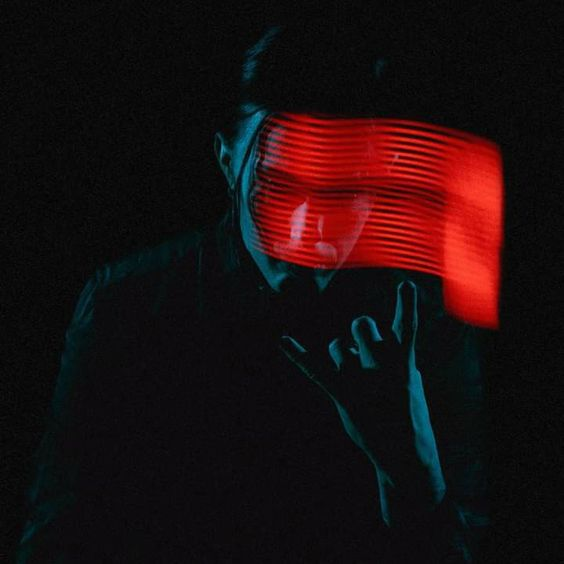
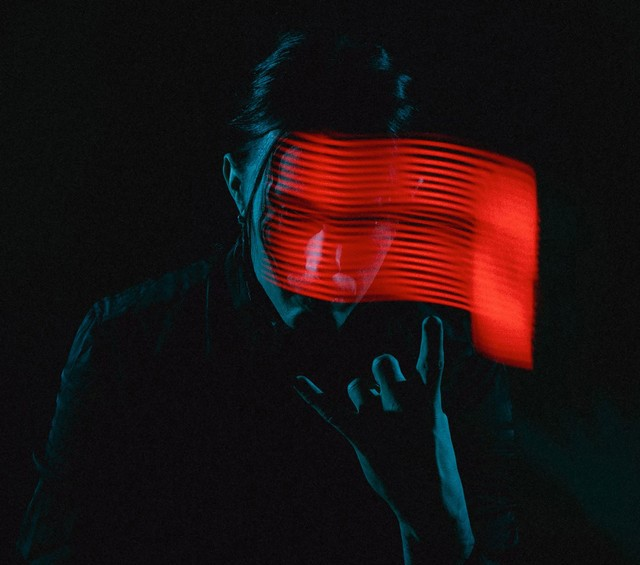
CSS changes, add tailwind.css, replace image

diff --git a/src/routes/Root.tsx b/src/routes/Root.tsx
@@ -1,18 +1,18 @@
 import React from "react";
 import { Header } from "../components/Header.tsx";
-import logo from "../assets/img/logo.png";
 import ronnieRedStripe from "../assets/img/ronnie-1.jpg";
-
 export function Root() {
   return (
     <>
       <Header />
       <div className="root-body">
-        <h1>Falling in Reverse</h1>
+        <h1 className="text-7xl  md:text-8xl lg:text-9xl">
+          Falling in Reverse
+        </h1>
         <img
           src={ronnieRedStripe}
           alt="Ronnie with red stripe"
-          className="root-ronnie1"
+          className="root-ronnie1 max-w-100"
         />
         <h2>Albums</h2>
         <ul>

diff --git a/src/index.css b/src/index.css
@@ -1,13 +1,15 @@
+@tailwind base;
+@tailwind components;
+@tailwind utilities;
+
 body {
   margin: 0;
   -webkit-font-smoothing: antialiased;
   -moz-osx-font-smoothing: grayscale;
   background-color: #080808;
-}
-
-code {
-  font-family: source-code-pro, Menlo, Monaco, Consolas, "Courier New",
-    monospace;
+  background-image: url(assets/img/grain.jpg);
+  background-size: auto;
+  background-repeat: round;
 }
 
 .root-logo {
@@ -27,9 +29,7 @@ code {
   text-align: center;
   color: #eb3022;
   font-family: "splash", sans-serif;
-  font-weight: 400;
-  font-style: normal;
-  font-size: 110px;
+  line-height: 1.5;
 }
 
 /*Header component*/

diff --git a/public/index.html b/public/index.html
@@ -3,7 +3,7 @@
   <head>
     <meta charset="utf-8" />
     <link rel="icon" href="%PUBLIC_URL%/favicon.ico" />
-    <meta name="viewport" content="width=device-width, initial-scale=1" />
+    <meta name="viewport" content="width=device-width, initial-scale=1.0" />
     <meta name="theme-color" content="#000000" />
     <link rel="stylesheet" href="https://use.typekit.net/pmv6txa.css" />
     <meta

diff --git a/tailwind.config.js b/tailwind.config.js
@@ -1,0 +1,8 @@
+/** @type {import('tailwindcss').Config} */
+module.exports = {
+  content: ["./src/**/*.{js,jsx,ts,tsx}"],
+  theme: {
+    extend: {},
+  },
+  plugins: [],
+};
